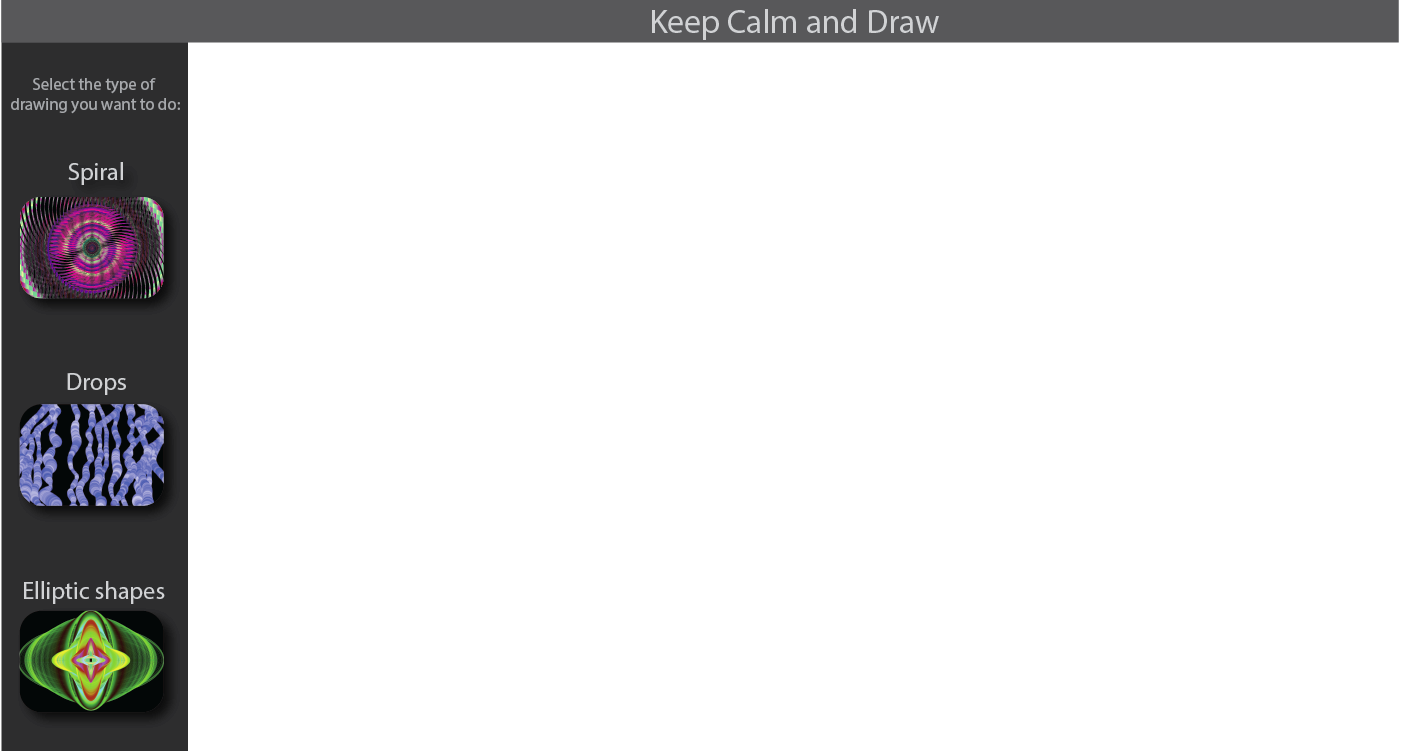
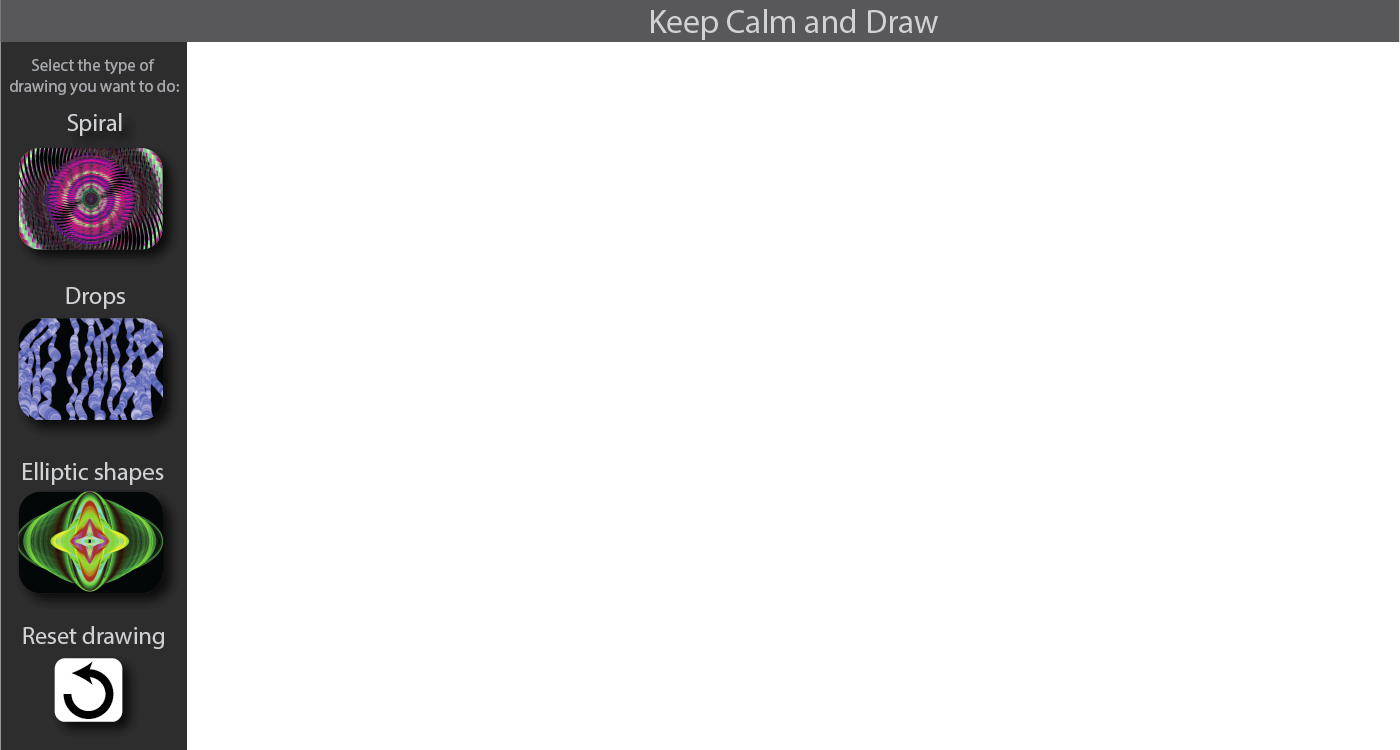
P3: Added a "reset drawing" option

Changed region(s): [[0.0, 0.0613, 0.1229, 0.9813], [0.4607, 0.0307, 0.6757, 0.0613], [0.9829, 0.0, 1.0, 0.0613]]

diff --git a/Projects/Project3/js/script.js b/Projects/Project3/js/script.js
@@ -30,18 +30,23 @@ let ellipticShapesInstructionsImage;
 let spiralOption = {
   leftX: 11,
   rightX: 177,
-  topY: 156,
-  bottomY: 313
+  topY: 108,
+  bottomY: 265
 }
 // Position of the drops option in the menu
 let dropsOption = {
-  topY: 366,
-  bottomY: 522
+  topY: 280,
+  bottomY: 437
 }
-
+// Position of the elliptic shapes option in the menu
 let ellipticShapesOption = {
-  topY: 569,
-  bottomY: 726
+  topY: 452,
+  bottomY: 608
+}
+// Position of the reset option in the menu
+let resetOption = {
+  topY: 622,
+  bottomY: 740
 }
 
 // preload()
@@ -160,9 +165,16 @@ function mousePressed() {
       else if (mouseY > dropsOption.topY && mouseY < dropsOption.bottomY) {
         loop(); // Start the loop
         state = "DROPS";
-      } else if (mouseY > ellipticShapesOption.topY && mouseY < ellipticShapesOption.bottomY) {
+      }
+      // Or if you click in the same Y range as the elliptic shapes option, change state to "elliptic shapes" and run the animation
+      else if (mouseY > ellipticShapesOption.topY && mouseY < ellipticShapesOption.bottomY) {
         loop();
         state = "ELLIPTICSHAPES";
+      }
+      // Or if you click in the same Y range as the reset option, reset the drawing and change state to "drawing"
+      else if (mouseY > resetOption.topY && mouseY < resetOption.bottomY) {
+        resetDrawing();
+        state = "DRAWING";
       }
     }
   }
@@ -177,4 +189,13 @@ function mousePressed() {
 // Displays the start page as an image
 function displayTitlePage() {
   image(startPageImage, 0, 0, width, height);
+}
+
+// resetDrawing()
+// Erases the drawing on screen
+function resetDrawing() {
+  // Draw a black background over the drawing to hide it
+  background(0);
+  // Display the menu image
+  image(menuImage, 0, 0, width, height);
 }
